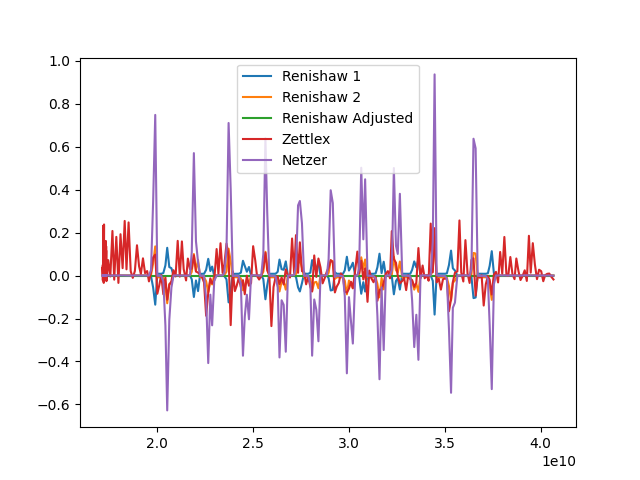
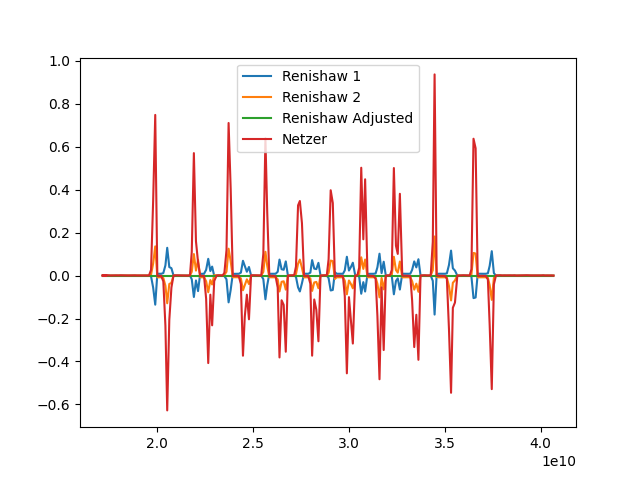
idk, just commit latest

Changed region(s): [[0.1562, 0.1562, 0.875, 0.8438]]

diff --git a/filter.py b/filter.py
@@ -118,7 +118,7 @@ def vel_calc1(num):
     rows = shape[0]
     #dt = np.double(time_array[i]- time_array[i-1])
     for j in range(1, rows): #by columns (will be 5 times)
-        dy = data_array[j][num+1]-data_array[j-1][num+1]
+        dy = data_array[j][num]-data_array[j-1][num]
         dy = np.double(min(abs(dy),abs(dy+360),abs(dy-360)))
         vel_array[j][num] = np.double(dy/dt)/(360.0)
 
@@ -232,7 +232,7 @@ plot(netz_pos, 'Reinishaw 1', y2)
 
 plt.figure("pos-error")
 pos_err_array = np.empty_like(data_array)
-for i in [0,1,2,3,4]:
+for i in [0,1,2,4]:
     pos_err_array[:,i] = data_array[:,i]-data_array[:,2]
     plt.plot(time_array, pos_err_array[:,i], label = order_labels_dict[i])
 plt.legend()
@@ -250,4 +250,13 @@ for i in range(5):
     if(order_labels_dict[i] == "Zettlex"): w = 2
     plt.plot(time, moving_avrg(data_array[:,i],w), label=order_labels_dict[i])
 plt.legend()
+
+
+plt.figure('velocity')
+plt.ylabel('rev/s')
+for i in range(5):
+    plt.plot(time_array, vel_array[:,i], label=order_labels_dict[i])
+    plt.ylim((-10,10))
+plt.legend()
+
 plt.show()
